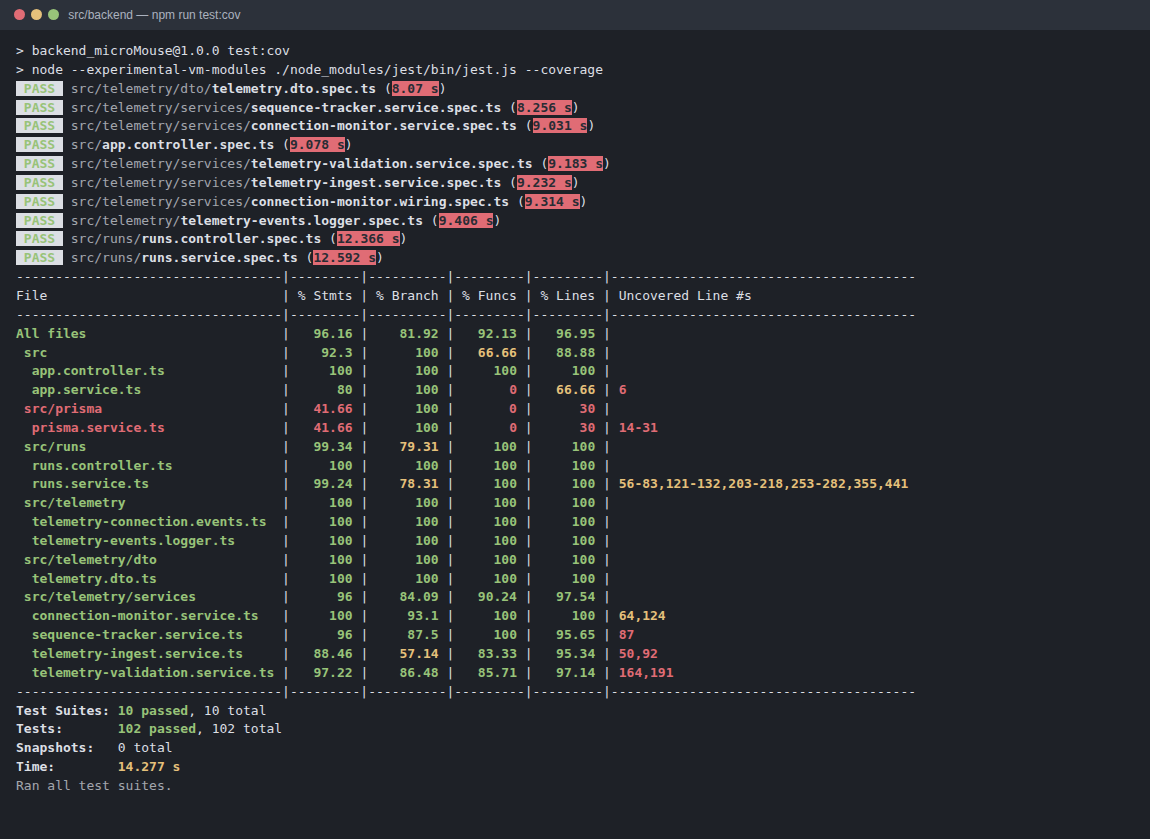
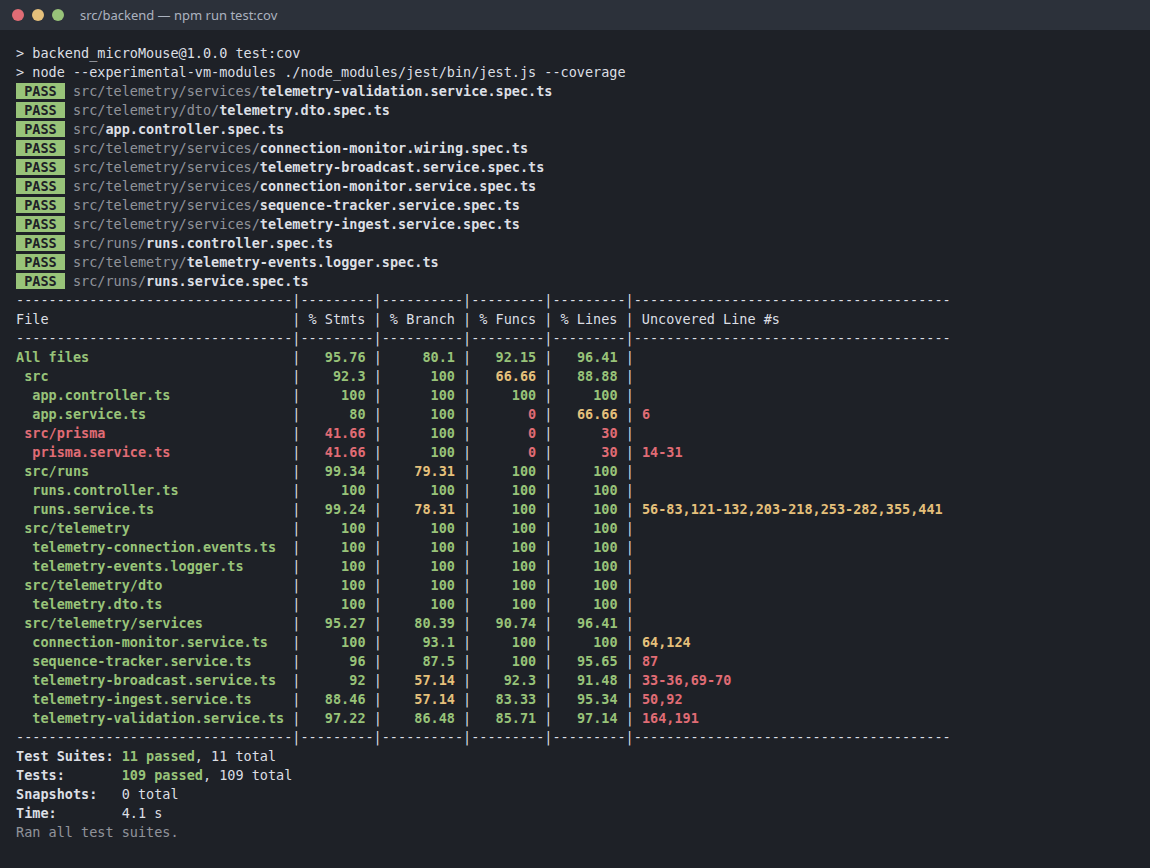
docs: atualizar os testes de software (7.4) com a telemetria ao vivo
- ensaio 4.8 / seção 5.8: dashboard recebendo o emulador pelo /live,
  com prints da corrida, da chegada e da reconexão
- CT-01, CT-03 e CT-05 passam a executados
- suítes atualizadas: backend 109 testes (11 suítes, 96,41% de linhas),
  frontend 132 testes (11 suítes, 97,53% de linhas), prints refeitos
- 4.4 e README do backend sem o mock em Python e com a contagem atual
- cronograma: PR #302 na linha da #293

Changed region(s): [[0.0, 0.0, 0.8217, 0.9607]]

diff --git a/docs/7.4 - Testes de software.md b/docs/7.4 - Testes de software.md
@@ -6,12 +6,12 @@ Este documento consolida o relatório formal dos **Testes de Software** do proje
 
 O subsistema de software é composto por:
 1. **Frontend Web (Next.js / React 19 / Tailwind CSS):** Dashboard dinâmico para acompanhamento em tempo real da prova, exibição gráfica do labirinto (grid SVG), velocímetro, indicador de bateria, cronômetro e histórico de corridas com destaque de recordes.
-2. **Backend (NestJS / Node.js):** Gateway WebSocket dedicado (`ws://<host>:3001/ingest`) para recepção e validação do fluxo de telemetria a 10 Hz (RNF-15), barramento interno de eventos desacoplado (`@nestjs/event-emitter`) e API HTTP REST (`http://<host>:3000/runs`) para consulta e auditoria de corridas.
+2. **Backend (NestJS / Node.js):** Gateway WebSocket dedicado (`ws://<host>:3001/ingest`) para recepção e validação do fluxo de telemetria a 10 Hz (RNF-15), barramento interno de eventos desacoplado (`@nestjs/event-emitter`) API HTTP REST (`http://<host>:3002/runs`) para consulta e auditoria de corridas e o canal WebSocket `ws://<host>:3002/live`, que repassa a telemetria ao dashboard em tempo real.
 3. **Camada de Persistência (PostgreSQL 16 & Prisma ORM):** Armazenamento relacional e estruturado das entidades `Labirinto`, `Corrida` e `Telemetria` (com suporte a payloads JSON de sensores).
 4. **Módulo de Emulação de Hardware (Mock Emulator - `scripts/robot-emulator.ts`):** Emulador do Micromouse em TypeScript, capaz de simular trajetórias reais nos labirintos 4x4, 8x4 e 12x4, emitir eventos de ciclo de vida (`CALIBRATION_DONE`, `RUN_START`, `GOAL_REACHED`, `RUN_END`) e injetar telemetria periódica sob contratos estritos.
 
 > **Alinhamento Metodológico com a Disciplina:**  
-> Os testes aqui documentados cobrem os **Testes Funcionais do Sistema de Software com Emulador Mock** (Issue [#218](https://github.com/fcte-pi1/2026.2_PI1_Grupo2_Hilmer/issues/218)) e as **Suítes de Testes Automatizados Unitários e de Integração** (71 testes com 100% de aprovação). Os testes fim-a-fim (*End-to-End*) que envolvem a pista física e os dados reais emitidos pelo microcontrolador ESP32 na pista constituem os **Testes de Integração de Hardware/Software**, registrados separadamente em [`docs/7.5 - Testes de integração.md`](https://github.com/fcte-pi1/2026.2_PI1_Grupo2_Hilmer/blob/main/docs/7.5%20-%20Testes%20de%20integra%C3%A7%C3%A3o.md).
+> Os testes aqui documentados cobrem os **Testes Funcionais do Sistema de Software com Emulador Mock** (Issue [#218](https://github.com/fcte-pi1/2026.2_PI1_Grupo2_Hilmer/issues/218)) e as **Suítes de Testes Automatizados Unitários e de Integração** (241 testes com 100% de aprovação: 109 no backend e 132 no frontend). Os testes fim-a-fim (*End-to-End*) que envolvem a pista física e os dados reais emitidos pelo microcontrolador ESP32 na pista constituem os **Testes de Integração de Hardware/Software**, registrados separadamente em [`docs/7.5 - Testes de integração.md`](https://github.com/fcte-pi1/2026.2_PI1_Grupo2_Hilmer/blob/main/docs/7.5%20-%20Testes%20de%20integra%C3%A7%C3%A3o.md).
 
 ---
 
@@ -29,18 +29,18 @@ A tabela a seguir correlaciona as Histórias de Usuários (HUs) definidas no Pon
 
 ### 2.1. Associação com o Roteiro de Testes Funcionais
 
-O roteiro de testes funcionais entregue no Ponto de Controle 1 ([#149](https://github.com/fcte-pi1/2026.2_PI1_Grupo2_Hilmer/issues/149), seção 5 do [Projeto conceitual de software](https://github.com/fcte-pi1/2026.2_PI1_Grupo2_Hilmer/blob/main/docs/4.4%20-%20Projeto%20conceitual%20de%20software.md)) define os casos CT-01 a CT-15. Os ensaios da seção 4 deste documento usam uma numeração própria. Para não confundir, a tabela abaixo usa os IDs do roteiro e aponta qual ensaio (4.1 a 4.7), suíte automatizada (seção 6) ou teste de estresse (seção 7) cobre cada caso.
+O roteiro de testes funcionais entregue no Ponto de Controle 1 ([#149](https://github.com/fcte-pi1/2026.2_PI1_Grupo2_Hilmer/issues/149), seção 5 do [Projeto conceitual de software](https://github.com/fcte-pi1/2026.2_PI1_Grupo2_Hilmer/blob/main/docs/4.4%20-%20Projeto%20conceitual%20de%20software.md)) define os casos CT-01 a CT-15. Os ensaios da seção 4 deste documento usam uma numeração própria. Para não confundir, a tabela abaixo usa os IDs do roteiro e aponta qual ensaio (4.1 a 4.8), suíte automatizada (seção 6) ou teste de estresse (seção 7) cobre cada caso.
 
 | **CT do roteiro** | **HU** | **Descrição resumida** | **Coberto por** | **Situação** |
 |:---:|:---:|---|---|:---:|
-| CT-01 | HU-01 | Renderização do trajeto no mapa em tempo real | Ensaios 4.1 a 4.3 (posição recebida e gravada no backend); `MazeMap.test.tsx` e `dashboard.test.tsx` (seção 6.4) | Parcial: a tela foi testada com dados mock; com dados reais depende de [#293](https://github.com/fcte-pi1/2026.2_PI1_Grupo2_Hilmer/issues/293) |
+| CT-01 | HU-01 | Renderização do trajeto no mapa em tempo real | Ensaios 4.1 a 4.3 (posição recebida e gravada no backend) e 4.8 (trajeto desenhado na tela a partir do emulador); `MazeMap.test.tsx`, `dashboard.test.tsx` e `TelemetryContext.test.tsx` (seção 6.4) | Executado |
 | CT-02 | HU-01 | Coordenadas fora dos limites do mapa | `MazeMap.test.tsx` (robô fora dos limites, seção 6.4) | Parcial: só o componente do mapa, com dados mock |
-| CT-03 | HU-02 | Atualização dos mostradores (velocidade, tempo, bateria) | Ensaios 4.1 a 4.3 (valores recebidos e gravados); `indicadores.test.tsx` (seção 6.4) | Parcial: a tela foi testada com dados mock; com dados reais depende de [#293](https://github.com/fcte-pi1/2026.2_PI1_Grupo2_Hilmer/issues/293) |
+| CT-03 | HU-02 | Atualização dos mostradores (velocidade, tempo, bateria) | Ensaios 4.1 a 4.3 (valores recebidos e gravados) e 4.8 (mostradores atualizados na tela durante a corrida); `indicadores.test.tsx` e `TelemetryContext.test.tsx` (seção 6.4) | Executado |
 | CT-04 | HU-02 | Alerta de bateria crítica | — | Não executado |
-| CT-05 | HU-02 | Indicador de conexão Online/Offline | Ensaios 4.4 e 4.5 (queda e reconexão detectadas no backend); `indicadores.test.tsx` (indicador Conectado/Desconectado, seção 6.4) | Parcial: o indicador foi testado com dados mock; ligado ao backend depende de [#293](https://github.com/fcte-pi1/2026.2_PI1_Grupo2_Hilmer/issues/293) |
+| CT-05 | HU-02 | Indicador de conexão Online/Offline | Ensaios 4.4 e 4.5 (queda e reconexão detectadas no backend) e 4.8 (indicador na tela e reconexão após reinício do backend); `indicadores.test.tsx` e `TelemetryContext.test.tsx` (seção 6.4) | Executado |
 | CT-06 | HU-02 | Pacote de telemetria malformado | Suítes `telemetry.dto.spec.ts` e `telemetry-validation.service.spec.ts` (seção 6) | Parcial: só a parte do backend |
 | CT-07 | HU-03 | Persistência automática ao final da corrida | Ensaios 4.1 a 4.3 e 4.6; testes de estresse E1 e E4a (seção 7) | Executado: as falhas de status encontradas na 1ª rodada de estresse foram corrigidas e a 2ª rodada passou (seção 7.3) |
-| CT-08 | HU-03 | Falha de comunicação com o banco | Teste de estresse E4b (seção 7) | Parcial: o backend não cai e volta a gravar sozinho; o aviso na tela depende de [#293](https://github.com/fcte-pi1/2026.2_PI1_Grupo2_Hilmer/issues/293) |
+| CT-08 | HU-03 | Falha de comunicação com o banco | Teste de estresse E4b (seção 7) | Parcial: o backend não cai e volta a gravar sozinho; a tela ainda não mostra aviso de falha do banco |
 | CT-09 | HU-03 | Duplicidade no salvamento da mesma corrida | Ensaio 4.5 (correção da sobrescrita de status) e `runs.service.spec.ts` | Executado |
 | CT-10 | HU-04 | Listagem e filtro do histórico por labirinto | Ensaios 4.6 (`GET /runs`) e 4.7 (tela `/historico` com dados do PostgreSQL); `HistoricoDashboard.test.tsx` e `corridas.test.ts` (seção 6.4) | Executado |
 | CT-11 | HU-04 | Filtro sem corridas registradas (estado vazio) | Ensaio 4.7 (mensagem de lista vazia na tela `/historico`); `HistoricoDashboard.test.tsx` (seção 6.4) | Executado |
@@ -55,13 +55,13 @@ O roteiro de testes funcionais entregue no Ponto de Controle 1 ([#149](https://g
 
 | **Requisito** | **Descrição Resumida** | **Casos de Teste Vinculados** | **Resultado** |
 |:---:|---|:---:|:---:|
-| **RF-13** | Dashboard Web dinâmico (trajeto, bateria, velocidade, tempo de conclusão, desafio cumprido). | CT-01, CT-02, CT-03 | **Aprovado** |
+| **RF-13** | Dashboard Web dinâmico (trajeto, bateria, velocidade, tempo de conclusão, desafio cumprido). | CT-01, CT-02, CT-03, CT-08 | **Aprovado** |
 | **RF-14** | Persistência e histórico de corridas no banco de dados com suporte a filtros por labirinto. | CT-01, CT-02, CT-03, CT-06, CT-07 | **Aprovado** |
 | **RF-15** | Destaque do melhor resultado (menor tempo) para cada dimensão de labirinto. | CT-06, CT-07 | **Aprovado** |
 | **RNF-15** | Frequência de transmissão e recepção de telemetria mínima de 10 Hz (intervalo $\le 100$ ms). | CT-01, CT-02, CT-03 | **Aprovado (9.2 ~ 10.0 Hz)** |
 | **RNF-16** | Autoria da solução desenvolvida pela equipe, sem frameworks comerciais proprietários. | Auditoria Geral | **Aprovado** |
 | **RNF-17** | Latência da interface web inferior a 500 ms entre emissão e despacho dos dados. | CT-01, CT-02, CT-03 | **Aprovado (< 5 ms em loopback)** |
-| **RNF-18** | Resiliência de conexão: retomada automática e integridade do monitoramento pós-desconexão. | CT-04, CT-05 | **Aprovado** |
+| **RNF-18** | Resiliência de conexão: retomada automática e integridade do monitoramento pós-desconexão. | CT-04, CT-05, CT-08 | **Aprovado** |
 
 ---
 
@@ -76,6 +76,7 @@ O roteiro de testes funcionais entregue no Ponto de Controle 1 ([#149](https://g
 | **4.5** | **CT-05: Reconexão e Reinicialização de Nova Corrida** | 23/10/2026 | 23/10/2026 | João Pedro | Novo início de corrida com `seq=1` não deve ser descartado por duplicidade do tracker anterior; nova corrida gravada. | Bug identificado e corrigido no `SequenceTrackerService`; nova corrida gravada limpa com 100 amostras. | **S** | | Atende RNF-18 e RF-14. |
 | **4.6** | **CT-06: Validação de Persistência e Rotas REST** | 23/10/2026 | 23/10/2026 | João Pedro | Rotas `GET /runs`, `GET /runs/:id/samples` e `GET /runs/best` devem retornar os dados idênticos ao banco PostgreSQL. | Rotas retornaram histórico ordenado, 100 amostras em JSON completo e menor tempo destacado como recorde. | **S** | | Atende RF-14 e RF-15. |
 | **4.7** | **CT-07: Integração Frontend ↔ Backend da Tela de Histórico** | 24/10/2026 | 24/10/2026 | Edilson | A tela `/historico` deve exibir as corridas gravadas no PostgreSQL via `GET /runs`, filtrar por labirinto consultando `GET /runs?mazeId=` e mostrar o recorde de `GET /runs/best`. | Tabela e indicadores idênticos ao retorno da API nos filtros Todos, 4x4, 8x4 e 12x4; card de recorde igual a `GET /runs/best`; corridas do emulador exibidas no labirinto correto. | **S** | | Atende HU-04, HU-05, RF-14 e RF-15. |
+| **4.8** | **CT-08: Dashboard em Tempo Real com o Emulador** | 25/10/2026 | 25/10/2026 | Daniel | O dashboard deve receber a telemetria pelo `/live`, desenhar posição, trajeto e paredes no labirinto informado no `RUN_START`, atualizar os mostradores e o indicador de conexão, e voltar a receber dados sozinho depois de um reinício do backend. | Corridas 12x4 e 8x4 exibidas ao vivo no labirinto correto; bateria, consumo, velocidade, tempo e desafio cumprido atualizados; "Desconectado" depois do fim da transmissão; após reiniciar o backend a página reconectou sem recarregar. | **S** | | Atende HU-01, HU-02, RF-13 e RNF-18. |
 
 ---
 
@@ -332,27 +333,72 @@ Em todos os filtros a tabela mostrou exatamente as corridas devolvidas pela API,
 
 ---
 
+### 5.8. CT-08: Dashboard em Tempo Real com o Emulador
+
+Verifica a tela de monitoramento (`/`) recebendo dados reais do backend, depois da integração da telemetria ao vivo ([#293](https://github.com/fcte-pi1/2026.2_PI1_Grupo2_Hilmer/issues/293), PR #302) e dos ajustes feitos na revisão desse PR.
+
+**Ambiente**
+
+| Serviço | Endereço |
+| ------- | -------- |
+| Frontend (Next.js, `npm run dev`) | `http://localhost:3000/` |
+| API REST e telemetria ao vivo (NestJS) | `http://localhost:3002` e `ws://localhost:3002/live` |
+| Ingestão WebSocket | `ws://localhost:3001/ingest` |
+| Navegador | Google Chrome |
+
+**Procedimento**
+
+1. Abrir `http://localhost:3000/` com o backend no ar e sem o emulador rodando.
+2. Rodar `npm run robot:emulator -- --maze 12x4 --hz 5 --steps 150 --battery 90 --battery-drain 0.1` (corrida de 30 s) e acompanhar a tela durante a corrida e depois da chegada.
+3. Parar o backend (`kill`) com a página aberta, subir de novo com `npm run start` e, sem recarregar a página, rodar `npm run robot:emulator -- --maze 8x4 --hz 5 --steps 100`.
+
+**Resultado obtido** (25/10/2026)
+
+| Momento | Esperado | Obtido |
+| ------- | -------- | ------ |
+| Página aberta, sem robô | "Desconectado"; mapa com os dados de exemplo | "Desconectado"; mapa 4x4 de exemplo |
+| Durante a corrida 12x4 | Labirinto trocado para 12x4 sem clicar na legenda; posição, trajeto e paredes vindos da telemetria; "Conectado" | Labirinto 12x4 selecionado sozinho; robô em (2, 1) aos 10 s com trajeto e paredes detectadas; "Conectado" e bateria em 85% |
+| Chegada | Desafio cumprido "S"; tempo e consumo finais | Robô em (11, 3); desafio "S"; consumo de 25% (bateria de 90% para 75%); tempo 00:30 |
+| Fim da transmissão | "Desconectado" após 1 s sem dados | "Desconectado" na captura feita depois do fim da corrida (o limite de 1 s é verificado em `TelemetryContext.test.tsx`) |
+| Backend reiniciado | Página reconecta ao `/live` sem recarregar | Backend registrou "Cliente web conectado em /live" ao subir; a corrida 8x4 seguinte apareceu na tela com o labirinto trocado para 8x4 |
+
+O trajeto aparece com trechos em diagonal porque o emulador avança por pontos de uma trajetória fixa e pula células entre um pacote e outro. É uma característica do emulador, não da tela.
+
+**Testes automatizados relacionados**
+
+- Backend: `telemetry-broadcast.service.spec.ts` (repasse da telemetria e dos eventos para os clientes do `/live`).
+- Frontend: `TelemetryContext.test.tsx` (indicador de conexão, reconexão, labirinto do `RUN_START`, paredes e conversão de unidades) e o grupo "Dashboard: corrida ao vivo" de `dashboard.test.tsx`.
+
+![Dashboard durante a corrida 12x4, com o labirinto trocado pelo RUN_START e as paredes detectadas pelo robô](figs/testes-sw/ao-vivo-12x4-corrida.jpg)
+
+![Dashboard na chegada da corrida 12x4: desafio cumprido, consumo de 25% e "Desconectado" após o fim da transmissão](figs/testes-sw/ao-vivo-12x4-chegada.jpg)
+
+![Corrida 8x4 exibida depois de reiniciar o backend, sem recarregar a página](figs/testes-sw/ao-vivo-reconexao-8x4.jpg)
+
+---
+
 ## 6. Suíte de Testes Automatizados (Unitários e de Integração)
 
-O backend e o frontend têm suítes automatizadas em **Jest**. Os números desta seção vêm da execução de 25/10/2026 sobre a `main` no commit `321e7cb`, que já inclui as correções do `RunsService`, os testes do frontend (PR #298) e a integração da tela de histórico com a API (PR #300).
+O backend e o frontend têm suítes automatizadas em **Jest**. Os números desta seção vêm da execução de 25/10/2026 no commit `26d020a`, que parte da `main` com a telemetria ao vivo (PR #302) e inclui os ajustes feitos na revisão desse PR. Antes dele já estavam as correções do `RunsService`, os testes do frontend (PR #298) e a integração da tela de histórico com a API (PR #300).
 
 ### 6.1. Resumo da Execução da Suíte de Testes (Backend)
 
-A suíte do backend usa **Jest** com **ts-jest** e cobre a validação de DTOs, o controle de sequência (`seq`), o monitor de conexão, a ingestão WebSocket, o ciclo de vida das corridas, as rotas REST e o logger de eventos. O Prisma é substituído por mocks, então os testes não precisam do banco. A execução é feita com `npm test` em `src/backend`.
+A suíte do backend usa **Jest** com **ts-jest** e cobre a validação de DTOs, o controle de sequência (`seq`), o monitor de conexão, a ingestão WebSocket, o repasse da telemetria ao navegador pelo `/live`, o ciclo de vida das corridas, as rotas REST e o logger de eventos. O Prisma é substituído por mocks, então os testes não precisam do banco. A execução é feita com `npm test` em `src/backend`.
 
 | **Suíte de Teste (Arquivo)** | **Testes Executados** | **Status** | **Tempo de Execução** |
 |---|:---:|:---:|:---:|
-| `app.controller.spec.ts` | 1 | Passou | 8,90 s |
-| `runs.controller.spec.ts` | 6 | Passou | 9,11 s |
-| `runs.service.spec.ts` | 36 | Passou | 9,45 s |
-| `telemetry.dto.spec.ts` | 11 | Passou | 8,47 s |
-| `connection-monitor.service.spec.ts` | 15 | Passou | 8,79 s |
-| `connection-monitor.wiring.spec.ts` | 1 | Passou | 9,31 s |
-| `sequence-tracker.service.spec.ts` | 7 | Passou | 8,16 s |
-| `telemetry-ingest.service.spec.ts` | 5 | Passou | 9,15 s |
-| `telemetry-validation.service.spec.ts` | 12 | Passou | 8,97 s |
-| `telemetry-events.logger.spec.ts` | 8 | Passou | 9,13 s |
-| **Total** | **102 testes (10 suítes)** | **100% aprovados** | **10,69 s** |
+| `app.controller.spec.ts` | 1 | Passou | 3,17 s |
+| `runs.controller.spec.ts` | 6 | Passou | 3,31 s |
+| `runs.service.spec.ts` | 36 | Passou | 3,36 s |
+| `telemetry.dto.spec.ts` | 11 | Passou | 2,96 s |
+| `connection-monitor.service.spec.ts` | 15 | Passou | 3,31 s |
+| `connection-monitor.wiring.spec.ts` | 1 | Passou | 3,34 s |
+| `sequence-tracker.service.spec.ts` | 7 | Passou | 3,24 s |
+| `telemetry-broadcast.service.spec.ts` | 7 | Passou | 3,15 s |
+| `telemetry-ingest.service.spec.ts` | 5 | Passou | 3,54 s |
+| `telemetry-validation.service.spec.ts` | 12 | Passou | 3,27 s |
+| `telemetry-events.logger.spec.ts` | 8 | Passou | 3,29 s |
+| **Total** | **109 testes (11 suítes)** | **100% aprovados** | **3,91 s** |
 
 ![Execução de npm test no backend](figs/testes-sw/jest-backend.png)
 
@@ -494,6 +540,21 @@ A lista abaixo foi extraída do relatório do Jest (`--json`). Cada linha é um 
 </details>
 
 <details>
+<summary><code>src/backend/src/telemetry/services/telemetry-broadcast.service.spec.ts</code> (7 testes)</summary>
+
+| **#** | **Grupo** | **Caso de teste** |
+|:---:|---|---|
+| 1 | TelemetryBroadcastService | deve aceitar um cliente WebSocket em /live |
+| 2 | TelemetryBroadcastService | deve transmitir telemetria no canal correto |
+| 3 | TelemetryBroadcastService | deve transmitir o evento RUN_START |
+| 4 | TelemetryBroadcastService | deve transmitir o evento RUN_END |
+| 5 | TelemetryBroadcastService | deve transmitir o evento GOAL_REACHED |
+| 6 | TelemetryBroadcastService | deve transmitir a mensagem para todos os clientes conectados |
+| 7 | TelemetryBroadcastService | não deve falhar quando não existem clientes conectados |
+
+</details>
+
+<details>
 <summary><code>src/backend/src/telemetry/services/telemetry-ingest.service.spec.ts</code> (5 testes)</summary>
 
 | **#** | **Grupo** | **Caso de teste** |
@@ -548,47 +609,49 @@ A lista abaixo foi extraída do relatório do Jest (`--json`). Cada linha é um 
 > backend_microMouse@1.0.0 test
 > node --experimental-vm-modules ./node_modules/jest/bin/jest.js
 
-PASS src/telemetry/services/sequence-tracker.service.spec.ts (8.157 s)
-PASS src/telemetry/dto/telemetry.dto.spec.ts (8.468 s)
-PASS src/telemetry/services/connection-monitor.service.spec.ts (8.791 s)
-PASS src/telemetry/services/telemetry-validation.service.spec.ts (8.975 s)
-PASS src/app.controller.spec.ts (8.898 s)
-PASS src/telemetry/telemetry-events.logger.spec.ts (9.131 s)
-PASS src/runs/runs.controller.spec.ts (9.113 s)
-PASS src/telemetry/services/telemetry-ingest.service.spec.ts (9.147 s)
-PASS src/telemetry/services/connection-monitor.wiring.spec.ts (9.307 s)
-PASS src/runs/runs.service.spec.ts (9.454 s)
+PASS src/telemetry/dto/telemetry.dto.spec.ts
+PASS src/app.controller.spec.ts
+PASS src/telemetry/services/sequence-tracker.service.spec.ts
+PASS src/telemetry/telemetry-events.logger.spec.ts
+PASS src/runs/runs.controller.spec.ts
+PASS src/telemetry/services/telemetry-broadcast.service.spec.ts
+PASS src/telemetry/services/connection-monitor.wiring.spec.ts
+PASS src/telemetry/services/telemetry-validation.service.spec.ts
+PASS src/telemetry/services/connection-monitor.service.spec.ts
+PASS src/runs/runs.service.spec.ts
+PASS src/telemetry/services/telemetry-ingest.service.spec.ts
 
-Test Suites: 10 passed, 10 total
-Tests:       102 passed, 102 total
+Test Suites: 11 passed, 11 total
+Tests:       109 passed, 109 total
 Snapshots:   0 total
-Time:        10.693 s, estimated 12 s
+Time:        3.906 s, estimated 4 s
 Ran all test suites.
 ```
 
 ### 6.4. Testes Automatizados do Frontend
 
-Os testes do frontend usam **Jest** e **React Testing Library**, em ambiente jsdom. Foram criados na issue [#295](https://github.com/fcte-pi1/2026.2_PI1_Grupo2_Hilmer/issues/295) (PR #298) e ampliados na integração do histórico com a API (PR #300). Eles cobrem o mapa SVG nos três labirintos (4x4, 8x4 e 12x4), a legenda e a troca de labirinto, o dashboard, os indicadores (velocidade, bateria, tempo, conexão), a tela de histórico (indicadores, recorde, tabela e filtros), os gráficos, as funções de formatação e o cliente da API (`lib/corridas.ts`: URLs, erros HTTP e modo mock). Não dependem do backend nem do robô: as respostas da API são simuladas, o dashboard usa os dados de `lib/mock-data.ts` e o Recharts é substituído por stubs. A execução é feita com `npm test` (ou `npm run test:coverage`) em `src/frontend`.
+Os testes do frontend usam **Jest** e **React Testing Library**, em ambiente jsdom. Foram criados na issue [#295](https://github.com/fcte-pi1/2026.2_PI1_Grupo2_Hilmer/issues/295) (PR #298) e ampliados na integração do histórico com a API (PR #300) e na telemetria ao vivo (PR #302 e ajustes da revisão). Eles cobrem a conexão com o `/live` (`TelemetryContext`: indicador de conexão, reconexão, labirinto do `RUN_START` e paredes), o mapa SVG nos três labirintos (4x4, 8x4 e 12x4), a legenda e a troca de labirinto, o dashboard, os indicadores (velocidade, bateria, tempo, conexão), a tela de histórico (indicadores, recorde, tabela e filtros), os gráficos, as funções de formatação e o cliente da API (`lib/corridas.ts`: URLs, erros HTTP e modo mock). Não dependem do backend nem do robô: as respostas da API são simuladas, o WebSocket do `/live` é substituído por um objeto falso, o dashboard usa os dados de `lib/mock-data.ts` quando não há corrida ao vivo e o Recharts é substituído por stubs. A execução é feita com `npm test` (ou `npm run test:coverage`) em `src/frontend`.
 
 | **Suíte de Teste (Arquivo)** | **Testes Executados** | **Status** | **Tempo de Execução** |
 |---|:---:|:---:|:---:|
-| `dashboard.test.tsx` | 8 | Passou | 1,92 s |
-| `historico-erro.test.tsx` | 2 | Passou | 0,98 s |
-| `GraficoCorridas.test.tsx` | 6 | Passou | 0,86 s |
-| `Header.test.tsx` | 4 | Passou | 0,96 s |
-| `HistoricoDashboard.test.tsx` | 22 | Passou | 1,76 s |
-| `MazeLegend.test.tsx` | 10 | Passou | 1,34 s |
-| `MazeMap.test.tsx` | 22 | Passou | 1,31 s |
-| `indicadores.test.tsx` | 18 | Passou | 1,25 s |
-| `corridas.test.ts` | 16 | Passou | 0,72 s |
-| `format.test.ts` | 9 | Passou | 0,64 s |
-| **Total** | **117 testes (10 suítes)** | **100% aprovados** | **4,74 s** |
+| `dashboard.test.tsx` | 10 | Passou | 0,53 s |
+| `historico-erro.test.tsx` | 2 | Passou | 0,05 s |
+| `GraficoCorridas.test.tsx` | 6 | Passou | 0,04 s |
+| `Header.test.tsx` | 5 | Passou | 0,06 s |
+| `HistoricoDashboard.test.tsx` | 22 | Passou | 0,20 s |
+| `MazeLegend.test.tsx` | 10 | Passou | 0,12 s |
+| `MazeMap.test.tsx` | 22 | Passou | 0,12 s |
+| `indicadores.test.tsx` | 18 | Passou | 0,06 s |
+| `TelemetryContext.test.tsx` | 12 | Passou | 0,05 s |
+| `corridas.test.ts` | 16 | Passou | 0,04 s |
+| `format.test.ts` | 9 | Passou | 0,03 s |
+| **Total** | **132 testes (11 suítes)** | **100% aprovados** | **2,19 s** |
 
 <details>
-<summary>Lista dos casos de teste do frontend (117 testes)</summary>
+<summary>Lista dos casos de teste do frontend (132 testes)</summary>
 
 <details>
-<summary><code>src/frontend/src/__tests__/app/dashboard.test.tsx</code> (8 testes)</summary>
+<summary><code>src/frontend/src/__tests__/app/dashboard.test.tsx</code> (10 testes)</summary>
 
 | **#** | **Grupo** | **Caso de teste** |
 |:---:|---|---|
@@ -600,6 +663,8 @@ Os testes do frontend usam **Jest** e **React Testing Library**, em ambiente jsd
 | 6 | Dashboard: simulação da corrida | anima o trajeto passo a passo e termina sozinha |
 | 7 | Dashboard: simulação da corrida | pausa a simulação ao clicar de novo |
 | 8 | Dashboard: simulação da corrida | trocar de labirinto durante a simulação interrompe a animação |
+| 9 | Dashboard: corrida ao vivo | mostra o labirinto informado no RUN_START |
+| 10 | Dashboard: corrida ao vivo | a telemetria ao vivo interrompe a simulação manual |
 
 </details>
 
@@ -628,14 +693,15 @@ Os testes do frontend usam **Jest** e **React Testing Library**, em ambiente jsd
 </details>
 
 <details>
-<summary><code>src/frontend/src/__tests__/components/Header.test.tsx</code> (4 testes)</summary>
+<summary><code>src/frontend/src/__tests__/components/Header.test.tsx</code> (5 testes)</summary>
 
 | **#** | **Grupo** | **Caso de teste** |
 |:---:|---|---|
-| 1 | Header | mostra título, conexão e bateria |
-| 2 | Header | destaca o link do Dashboard em / |
-| 3 | Header | destaca o link do Histórico em /historico |
-| 4 | Header | aponta os links para as rotas corretas |
+| 1 | Header | mostra título, conexão e bateria quando conectado |
+| 2 | Header | mostra status desconectado quando não houver conexão ativa |
+| 3 | Header | destaca o link do Dashboard em / |
+| 4 | Header | destaca o link do Histórico em /historico |
+| 5 | Header | aponta os links para as rotas corretas |
 
 </details>
 
@@ -744,6 +810,26 @@ Os testes do frontend usam **Jest** e **React Testing Library**, em ambiente jsd
 </details>
 
 <details>
+<summary><code>src/frontend/src/__tests__/context/TelemetryContext.test.tsx</code> (12 testes)</summary>
+
+| **#** | **Grupo** | **Caso de teste** |
+|:---:|---|---|
+| 1 | TelemetryContext: resolveLiveUrl | usa NEXT_PUBLIC_LIVE_URL quando definida |
+| 2 | TelemetryContext: resolveLiveUrl | sem a variável, usa o host da página na porta 3002 |
+| 3 | TelemetryContext | começa desconectado e abre o /live |
+| 4 | TelemetryContext | só mostra conectado quando o robô manda dados |
+| 5 | TelemetryContext | volta para desconectado quando o robô para de mandar dados |
+| 6 | TelemetryContext | reconecta ao /live depois que a conexão cai |
+| 7 | TelemetryContext | não reconecta depois de desmontado |
+| 8 | TelemetryContext | usa o labirinto informado no RUN_START |
+| 9 | TelemetryContext | ignora um labirinto desconhecido no RUN_START |
+| 10 | TelemetryContext | converte bateria, velocidade e tempo da telemetria |
+| 11 | TelemetryContext | acumula as paredes por célula e o trajeto sem repetir posição |
+| 12 | TelemetryContext | não quebra com mensagem inválida |
+
+</details>
+
+<details>
 <summary><code>src/frontend/src/__tests__/lib/corridas.test.ts</code> (16 testes)</summary>
 
 | **#** | **Grupo** | **Caso de teste** |
@@ -794,12 +880,12 @@ A meta da disciplina é de pelo menos 80% de cobertura. O `jest.config.ts` do ba
 
 | **Métrica** | **Backend** | **Frontend** | **Meta** | **Situação** |
 |---|:---:|:---:|:---:|:---:|
-| Linhas | 96,95% | 98,52% | ≥ 80% | Atingida |
-| Instruções | 96,16% | 96,57% | ≥ 80% | Atingida |
-| Funções | 92,13% | 98,21% | ≥ 80% | Atingida |
-| Ramos | 81,92% | 91,4% | ≥ 80% | Atingida |
+| Linhas | 96,41% | 97,53% | ≥ 80% | Atingida |
+| Instruções | 95,76% | 96,21% | ≥ 80% | Atingida |
+| Funções | 92,15% | 97,26% | ≥ 80% | Atingida |
+| Ramos | 80,1% | 88,62% | ≥ 80% | Atingida |
 
-No backend, a menor cobertura está no `prisma.service.ts` (30% das linhas, porque a conexão com o banco não é exercitada nos testes unitários) e nos ramos do `telemetry-ingest.service.ts` (57,14%).
+No backend, a menor cobertura está no `prisma.service.ts` (30% das linhas, porque a conexão com o banco não é exercitada nos testes unitários) e nos ramos do `telemetry-ingest.service.ts` e do `telemetry-broadcast.service.ts` (57,14% cada; no broadcast ficam de fora o caso sem servidor HTTP e o tratamento de erro do socket). No frontend, a medição passou a incluir o `TelemetryContext` (96,22% das linhas), o que explica a pequena queda em relação à rodada anterior.
 
 ![Execução de npm run test:cov no backend](figs/testes-sw/cov-backend.png)
 
@@ -807,7 +893,8 @@ No backend, a menor cobertura está no `prisma.service.ts` (30% das linhas, porq
 
 - **Smoke test do backend:** `test/app.e2e-spec.ts`, com Jest + Supertest (`npm run test:e2e`). Sobe a aplicação NestJS completa (`AppModule`) e faz uma requisição HTTP real a `GET /health`. Resultado: 1 de 1 teste aprovado.
 - **Tela de histórico com o backend real:** verificada manualmente no ensaio 4.7 (seção 5.7).
-- **E2E automatizado pela interface gráfica:** ainda não implementado. O dashboard em tempo real ainda usa dados mock; a integração com a telemetria ao vivo está em [#293](https://github.com/fcte-pi1/2026.2_PI1_Grupo2_Hilmer/issues/293).
+- **Dashboard em tempo real com o backend real:** verificado manualmente no ensaio 4.8 (seção 5.8).
+- **E2E automatizado pela interface gráfica:** ainda não implementado.
 
 ![Execução de npm run test:e2e no backend](figs/testes-sw/e2e-backend.png)
 
@@ -938,4 +1025,4 @@ O backend continuou no ar e o WebSocket não caiu. Enquanto o banco estava fora,
 
 A bateria de testes de software realizada comprovou o pleno atendimento aos requisitos funcionais **RF-13, RF-14 e RF-15** e aos requisitos não-funcionais **RNF-15, RNF-16, RNF-17 e RNF-18**.
 
-Com **219 testes automatizados aprovados com 100% de sucesso** (102 no backend, com 96,95% de cobertura de linhas, e 117 no frontend, com 98,52%) e a validação funcional completa nos três labirintos com persistência no PostgreSQL, o subsistema de software atinge o estado de **pronto para integração final com o hardware físico** (ESP32), cujos ensaios em pista serão conduzidos e registrados em [`docs/7.5 - Testes de integração.md`](https://github.com/fcte-pi1/2026.2_PI1_Grupo2_Hilmer/blob/main/docs/7.5%20-%20Testes%20de%20integra%C3%A7%C3%A3o.md).
+Com **241 testes automatizados aprovados com 100% de sucesso** (109 no backend, com 96,41% de cobertura de linhas, e 132 no frontend, com 97,53%), a validação funcional completa nos três labirintos com persistência no PostgreSQL e o dashboard verificado recebendo a telemetria ao vivo, o subsistema de software atinge o estado de **pronto para integração final com o hardware físico** (ESP32), cujos ensaios em pista serão conduzidos e registrados em [`docs/7.5 - Testes de integração.md`](https://github.com/fcte-pi1/2026.2_PI1_Grupo2_Hilmer/blob/main/docs/7.5%20-%20Testes%20de%20integra%C3%A7%C3%A3o.md).

diff --git a/docs/5 - Cronograma.md b/docs/5 - Cronograma.md
@@ -88,7 +88,7 @@ O RF-14 já está implementado no backend (rotas `GET /runs`, `GET /runs/best` e
 | 15 | [#294](https://github.com/fcte-pi1/2026.2_PI1_Grupo2_Hilmer/issues/294) | Iniciação | — | Integração do Frontend com o Backend Real via REST | 19/10/2026 | 25/10/2026 | Edilson-r-jr | — | 0% | Backlog do Sprint | Sprint 7 |
 | 16 | [#295](https://github.com/fcte-pi1/2026.2_PI1_Grupo2_Hilmer/issues/295) | — | — | Testes Unitários do Frontend e Ajustes de Responsividade/Layout | 19/10/2026 | 25/10/2026 | EdHCG | — | 100% | Fechado | Sprint 7 |
 | 17 | [#165](https://github.com/fcte-pi1/2026.2_PI1_Grupo2_Hilmer/issues/165) | — | — | Integração hardware/software | 20/10/2026 | 30/10/2026 | — | — | 0% | A Fazer | — |
-| 18 | [#293](https://github.com/fcte-pi1/2026.2_PI1_Grupo2_Hilmer/issues/293) | — | — | Envio da telemetria | 21/10/2026 | 26/10/2026 | Felipe-Brandim | — | 0% | Backlog do Sprint | Sprint 7 |
+| 18 | [#293](https://github.com/fcte-pi1/2026.2_PI1_Grupo2_Hilmer/issues/293) | — | — | Envio da telemetria | 21/10/2026 | 26/10/2026 | Felipe-Brandim | #302 | 0% | Backlog do Sprint | Sprint 7 |
 | 19 | [#218](https://github.com/fcte-pi1/2026.2_PI1_Grupo2_Hilmer/issues/218) | Execução | — | Execução de testes funcionais (Mock) e ajustes de bugs | 27/10/2026 | 29/10/2026 | joaoPedro-201 | — | 100% | Fechado | Sprint 7 |
 | 20 | [#219](https://github.com/fcte-pi1/2026.2_PI1_Grupo2_Hilmer/issues/219) | — | — | Deploy em Nuvem (Vercel, Render e PostgreSQL) | 30/10/2026 | 04/11/2026 | — | — | 0% | A Fazer | — |
 | 21 | [#187](https://github.com/fcte-pi1/2026.2_PI1_Grupo2_Hilmer/issues/187) | — | — | Testes de comunicação com ESP32 físico via WebSockets | 05/11/2026 | 15/11/2026 | Edilson-r-jr | — | 0% | A Fazer | — |

diff --git a/docs/4.4 - Projeto conceitual de software.md b/docs/4.4 - Projeto conceitual de software.md
@@ -146,7 +146,7 @@ Foi adotada uma abordagem arquitetural híbrida, combinando dois padrões para a
 
 * **Linguagens de Programação:**
 * **TypeScript:** Utilizado integralmente tanto no *backend* quanto no *frontend*, garantindo tipagem estática ponta a ponta e alinhamento com os contratos de dados JSON.
-* **Python (v3.x):** Utilizado exclusivamente no utilitário de simulação (`robot_mock.py`) para testes e emulação física do trajeto do robô.
+* **Simulação do robô:** o emulador (`src/backend/scripts/robot-emulator.ts`), também em TypeScript, simula o trajeto e a telemetria do robô para os testes. Ele substituiu o mock em Python (`robot_mock.py`) usado no início do projeto.
 * **SQL:** Linguagem de consulta estruturada aplicada na base de dados relacional.
 
 
@@ -171,7 +171,7 @@ Foi adotada uma abordagem híbrida: **MVC nas requisições + Event-Driven no fl
 **Linguagens de programação:**
 
 * **TypeScript:** Utilizado integralmente no frontend e backend, garantindo tipagem ponta a ponta.
-* **Python:** Utilizado no utilitário de simulação (Mock) para testes e emulação física do trajeto.
+* **Simulação:** o emulador do robô também é em TypeScript (`scripts/robot-emulator.ts`), no lugar do antigo mock em Python.
 * **SQL:** Linguagem de consulta para a base de dados.
 
 **Frameworks e bibliotecas:**

diff --git a/src/backend/README.md b/src/backend/README.md
@@ -74,7 +74,7 @@ A taxa é medida em janelas de 1 s (`ConnectionMonitorService.getRate(robotId)`)
 cd src/backend
 npm install
 
-# testes automatizados (63 testes unitários)
+# testes automatizados (109 testes; npm run test:cov mostra a cobertura)
 npm test
 
 # servidor completo NestJS (Ingestão WebSocket + Prisma + Regras de Corridas)
